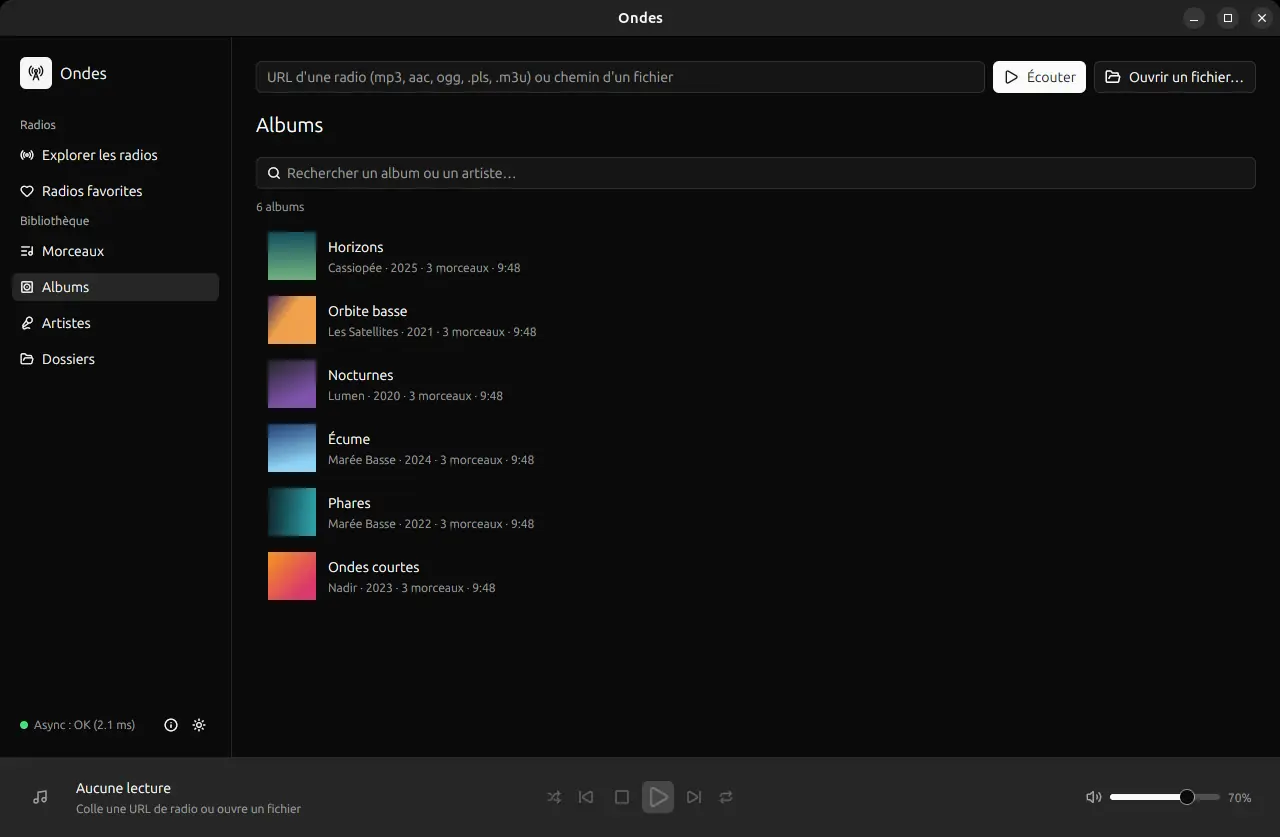
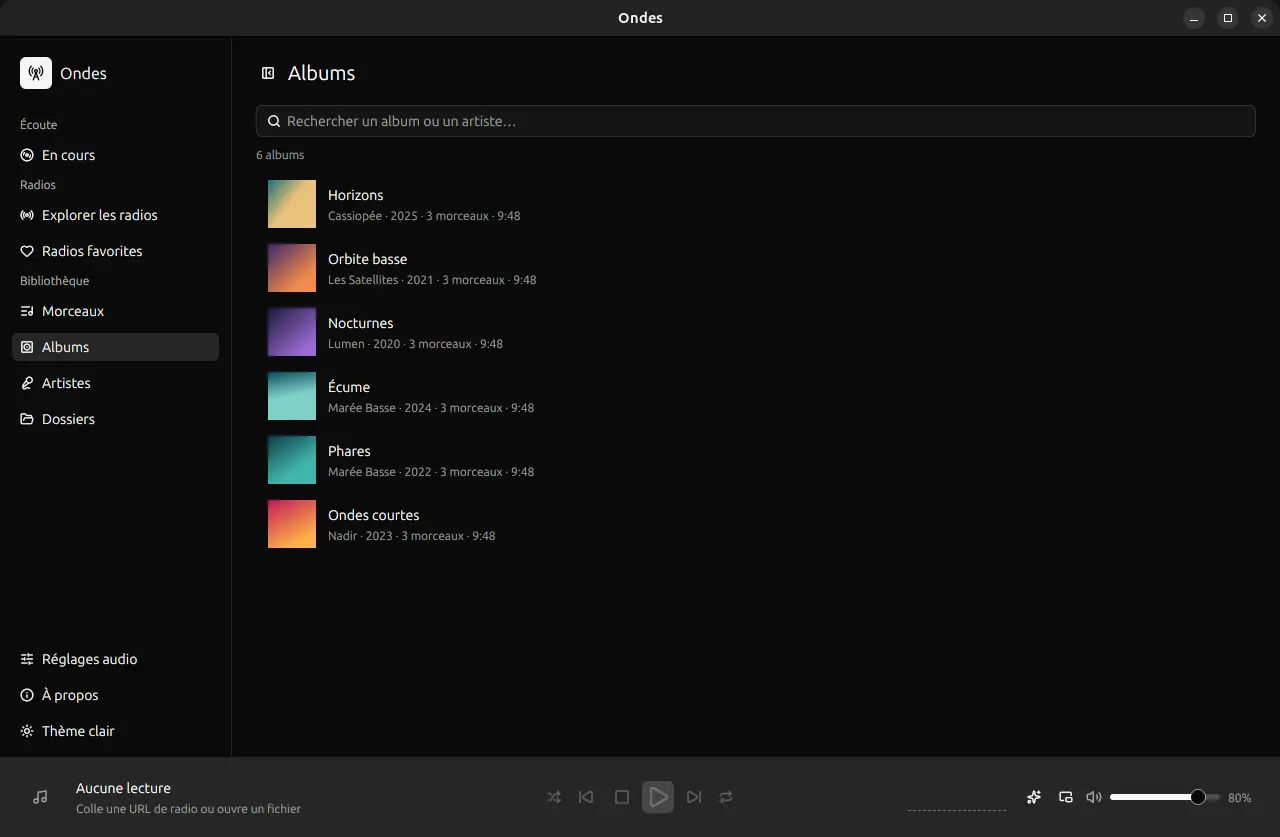
Site : captures et fonctions de la 0.6.0
- Captures refaites (données de démo) : barre latérale et page d'accueil
  actuelles, plus la page « En cours » avec le visualiseur et les
  réglages audio.
- Trois fonctions de plus : confort d'écoute, visualiseur / vue compacte,
  enregistrement des directs.
- Raccourcis : enregistrement, En cours, mode immersif, vue compacte,
  barre latérale, réglages audio.

diff --git a/site/index.html b/site/index.html
@@ -295,6 +295,21 @@
           <p>Tape quelques lettres : titres, artistes et albums sont filtrés à chaque frappe, sans tenir compte des accents ni des majuscules.</p>
         </article>
         <article class="feature">
+          <div class="ic"><svg viewBox="0 0 24 24" fill="none" stroke="currentColor" stroke-width="2" stroke-linecap="round" stroke-linejoin="round"><path d="M10 5H3"/><path d="M12 19H3"/><path d="M14 3v4"/><path d="M16 17v4"/><path d="M21 12h-9"/><path d="M21 19h-5"/><path d="M21 5h-7"/><path d="M8 10v4"/><path d="M8 12H3"/></svg></div>
+          <h3>Confort d'écoute</h3>
+          <p>Égaliseur 10 bandes avec préréglages, volume homogène grâce à ReplayGain, morceaux enchaînés sans blanc ou en fondu.</p>
+        </article>
+        <article class="feature">
+          <div class="ic"><svg viewBox="0 0 24 24" fill="none" stroke="currentColor" stroke-width="2" stroke-linecap="round" stroke-linejoin="round"><path d="M9.937 15.5A2 2 0 0 0 8.5 14.063l-6.135-1.582a.5.5 0 0 1 0-.962L8.5 9.936A2 2 0 0 0 9.937 8.5l1.582-6.135a.5.5 0 0 1 .963 0L14.063 8.5A2 2 0 0 0 15.5 9.937l6.135 1.581a.5.5 0 0 1 0 .964L15.5 14.063a2 2 0 0 0-1.437 1.437l-1.582 6.135a.5.5 0 0 1-.963 0z"/><path d="M20 3v4"/><path d="M22 5h-4"/><path d="M4 17v2"/><path d="M5 18H3"/></svg></div>
+          <h3>Ce qui joue, en grand</h3>
+          <p>Pochette, spectre ou visualiseur animé par la carte graphique. En mode immersif, l'effet occupe tout l'écran ; en vue compacte, Ondes tient dans un coin.</p>
+        </article>
+        <article class="feature">
+          <div class="ic"><svg viewBox="0 0 24 24" fill="none" stroke="currentColor" stroke-width="2" stroke-linecap="round" stroke-linejoin="round"><circle cx="12" cy="12" r="10"/><circle cx="12" cy="12" r="4" fill="currentColor"/></svg></div>
+          <h3>Enregistre la radio</h3>
+          <p>Un clic (ou <kbd>Ctrl</kbd> <kbd>Maj</kbd> <kbd>R</kbd>) et le direct est copié tel quel dans ta musique, sans perte de qualité.</p>
+        </article>
+        <article class="feature">
           <div class="ic"><svg viewBox="0 0 24 24" fill="none" stroke="currentColor" stroke-width="2" stroke-linecap="round" stroke-linejoin="round"><rect width="20" height="16" x="2" y="4" rx="2"/><path d="M6 8h.01M10 8h.01M14 8h.01M18 8h.01M8 12h.01M12 12h.01M16 12h.01M7 16h10"/></svg></div>
           <h3>Fait pour le clavier</h3>
           <p>Une palette de commandes (<kbd>Ctrl</kbd> <kbd>K</kbd>) pour tout faire sans souris, et les touches multimédia du clavier qui pilotent la lecture.</p>
@@ -307,6 +322,14 @@
       </div>
 
       <div class="gallery">
+        <figure>
+          <img src="images/now-dark.webp" width="1280" height="837" loading="lazy" alt="La page « En cours » d'Ondes en thème sombre : le visualiseur Nébuleuse, animé par la musique, avec le titre du morceau en dessous.">
+          <figcaption>La page En cours et son visualiseur, à passer en plein écran.</figcaption>
+        </figure>
+        <figure>
+          <img src="images/audio-light.webp" width="1280" height="837" loading="lazy" alt="Les réglages audio d'Ondes en thème clair : égaliseur 10 bandes, normalisation ReplayGain par album et fondu enchaîné de 3 secondes.">
+          <figcaption>Égaliseur, normalisation du volume et fondu enchaîné.</figcaption>
+        </figure>
         <figure>
           <img src="images/albums-dark.webp" width="1280" height="837" loading="lazy" alt="La vue Albums d'Ondes en thème sombre, avec les pochettes, l'artiste, l'année et la durée de chaque album.">
           <figcaption>Les albums de ta bibliothèque, avec leurs pochettes.</figcaption>
@@ -374,6 +397,12 @@ chmod +x ondes_*_x86_64.AppImage && ./ondes_*_x86_64.AppImage</pre>
         <div class="key-row"><span>Aléatoire / répétition</span><span><kbd>Ctrl</kbd> <kbd>U</kbd> / <kbd>R</kbd></span></div>
         <div class="key-row"><span>Radio en cours en favori</span><span><kbd>Ctrl</kbd> <kbd>D</kbd></span></div>
         <div class="key-row"><span>Écouter une URL / un fichier</span><span><kbd>Ctrl</kbd> <kbd>L</kbd> / <kbd>O</kbd></span></div>
+        <div class="key-row"><span>Enregistrer le direct</span><span><kbd>Ctrl</kbd> <kbd>Maj</kbd> <kbd>R</kbd></span></div>
+        <div class="key-row"><span>Page « En cours »</span><span><kbd>Ctrl</kbd> <kbd>0</kbd></span></div>
+        <div class="key-row"><span>Visualiseur en mode immersif</span><span><kbd>Ctrl</kbd> <kbd>Maj</kbd> <kbd>V</kbd></span></div>
+        <div class="key-row"><span>Vue compacte</span><span><kbd>Ctrl</kbd> <kbd>Maj</kbd> <kbd>M</kbd></span></div>
+        <div class="key-row"><span>Plier la barre latérale</span><span><kbd>Ctrl</kbd> <kbd>B</kbd></span></div>
+        <div class="key-row"><span>Réglages audio</span><span><kbd>Ctrl</kbd> <kbd>,</kbd></span></div>
       </div>
     </div>
   </section>
